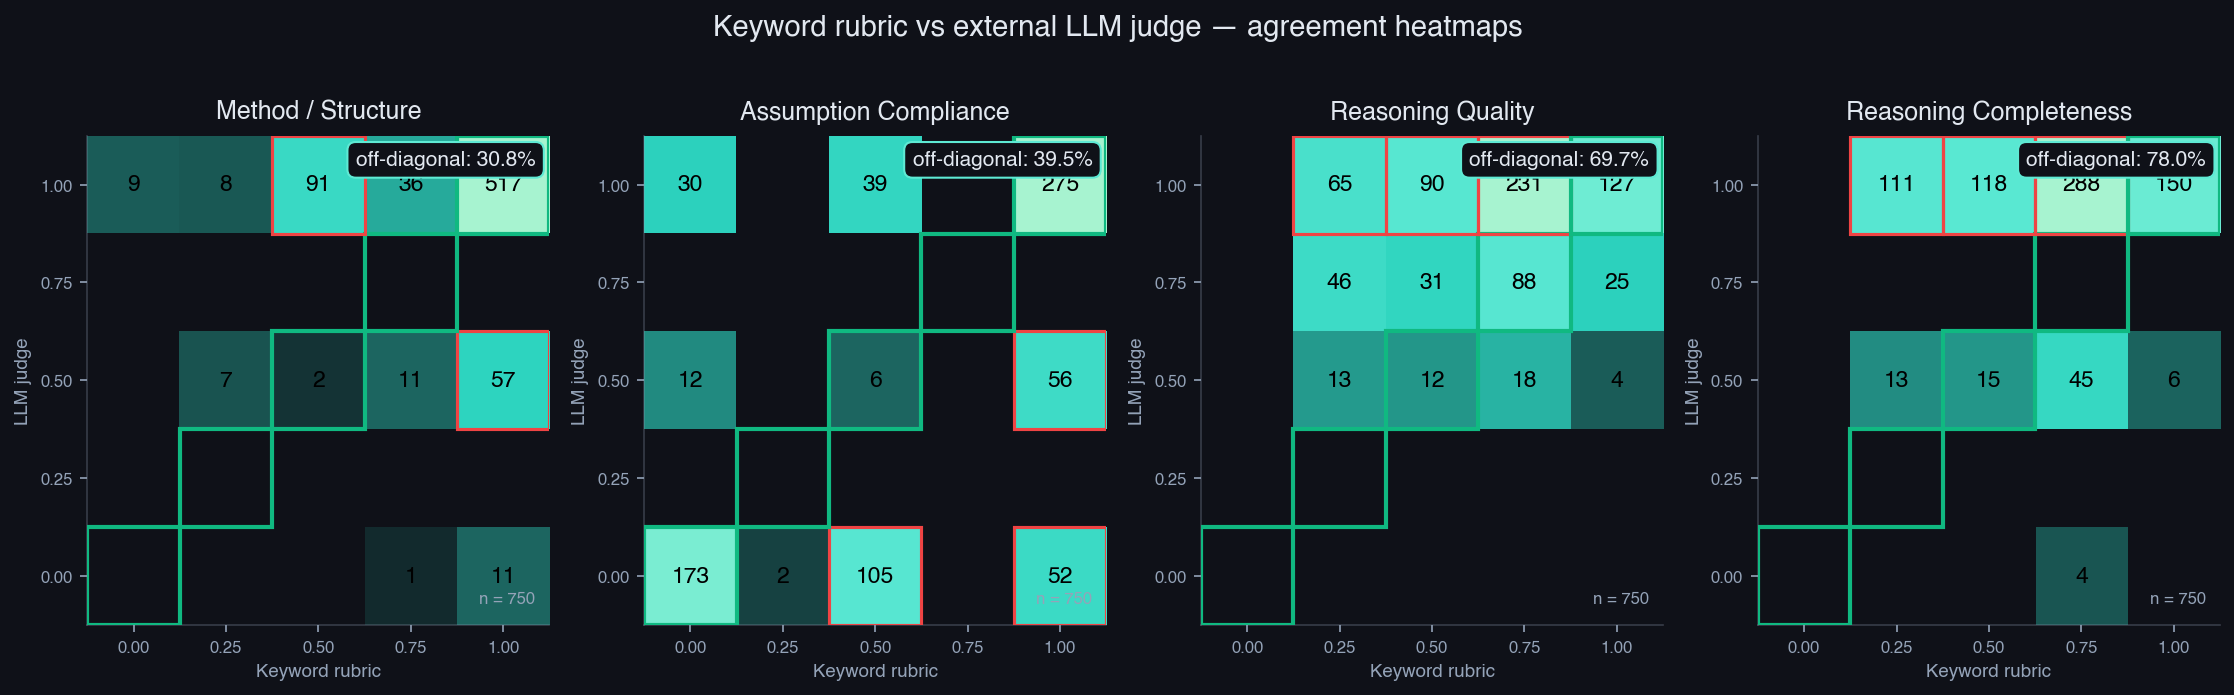
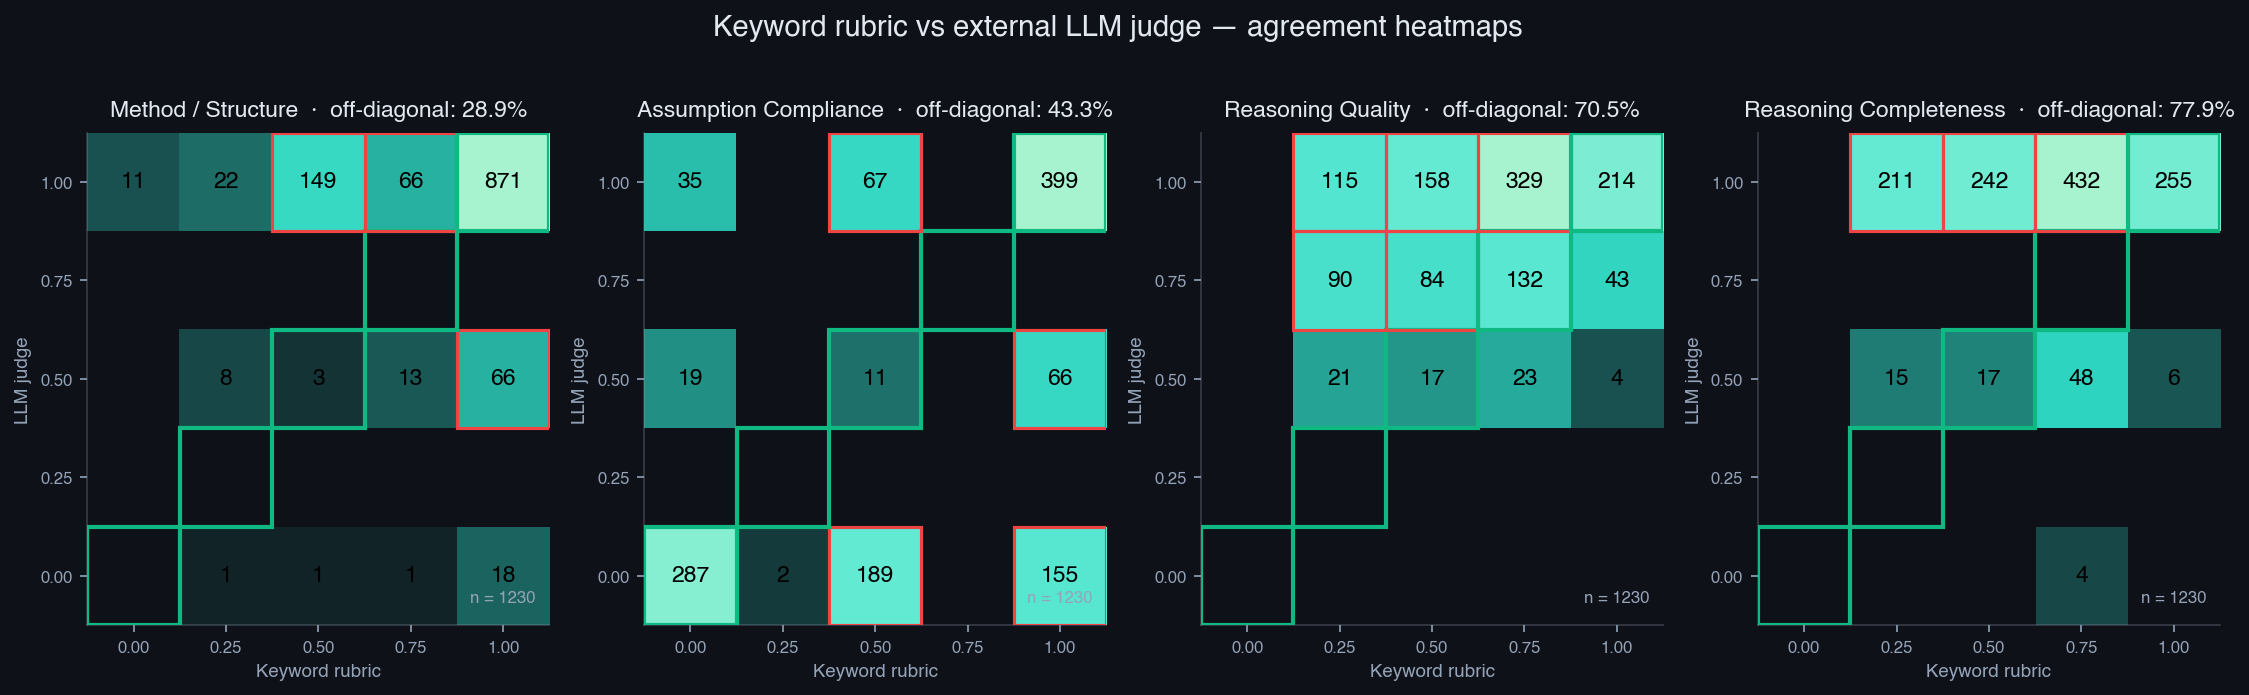
4 polish: judge title-inline %, robustness wider+plain black, calibration corner labels, accuracy colorbar 0-1

diff --git a/scripts/robustness_analysis.py b/scripts/robustness_analysis.py
@@ -21,7 +21,6 @@ from collections import defaultdict
 from pathlib import Path
 
 import matplotlib.colors as mcolors
-import matplotlib.patheffects as pe
 import matplotlib.pyplot as plt
 import numpy as np
 
@@ -145,7 +144,7 @@ def plot_heatmap(heatmap, task_types, models):
     norm = mcolors.TwoSlopeNorm(vmin=-vmax, vcenter=0.0, vmax=vmax)
     cmap = plt.get_cmap("RdBu_r")
 
-    fig, ax = plt.subplots(figsize=(7, 14), dpi=150, facecolor=SITE_BG)
+    fig, ax = plt.subplots(figsize=(9, 14), dpi=150, facecolor=SITE_BG)
     ax.set_facecolor(SITE_BG)
     im = ax.imshow(M, cmap=cmap, norm=norm, aspect="auto", origin="upper")
 
@@ -161,20 +160,16 @@ def plot_heatmap(heatmap, task_types, models):
     ax.set_yticklabels(ordered_types, fontsize=8.5, family="monospace",
                        color=SITE_FG_MUTED)
 
-    # Annotate EVERY non-NaN cell. Black ink + white stroke for contrast on
-    # any background.
-    label_stroke = [pe.withStroke(linewidth=1.5, foreground="white")]
+    # Annotate EVERY non-NaN cell with plain black text.
     for i in range(len(ordered_types)):
         for j in range(len(models)):
             v = M[i, j]
             if np.isnan(v):
                 ax.text(j, i, "—", ha="center", va="center",
-                        fontsize=6, color="black",
-                        path_effects=label_stroke)
+                        fontsize=6, color="black")
                 continue
             ax.text(j, i, f"{v:+.2f}", ha="center", va="center",
-                    fontsize=7, color="black", fontweight="bold",
-                    path_effects=label_stroke)
+                    fontsize=7, color="black", fontweight="bold")
 
     for _, _, end_row in cat_spans[:-1]:
         ax.axhline(end_row + 0.5, color=SITE_FG_MUTED, linewidth=1.0, alpha=0.5)

diff --git a/scripts/keyword_vs_judge_agreement.py b/scripts/keyword_vs_judge_agreement.py
@@ -27,7 +27,7 @@ import sys
 sys.path.insert(0, str(Path(__file__).resolve().parent))
 from site_palette import (
     SITE_BG, SITE_FG, SITE_FG_MUTED, MODEL_COLORS,
-    ACCENT_TEAL, COLOR_GOOD, COLOR_BAD,
+    COLOR_GOOD, COLOR_BAD,
     apply_site_theme, color_code_model_ticks, dim_remaining_spines,
 )
 
@@ -255,13 +255,6 @@ def make_scatter_figure(joined: list[dict], path: Path) -> None:
                                          linewidth=1.5, zorder=4)
                     ax.add_patch(rect)
 
-        ax.text(0.97, 0.97,
-                f"off-diagonal: {off_pct:.1f}%",
-                transform=ax.transAxes, ha="right", va="top",
-                fontsize=10, fontweight="700", color=SITE_FG,
-                bbox=dict(boxstyle="round,pad=0.4", facecolor=SITE_BG,
-                          edgecolor=ACCENT_TEAL, lw=1),
-                zorder=5)
         ax.text(0.97, 0.04, f"n = {total}",
                 transform=ax.transAxes, ha="right", va="bottom",
                 fontsize=8, color=SITE_FG_MUTED, fontweight="600")
@@ -270,7 +263,8 @@ def make_scatter_figure(joined: list[dict], path: Path) -> None:
         ax.set_yticks(range(len(bin_centers)))
         ax.set_xticklabels([f"{c:.2f}" for c in bin_centers], fontsize=8)
         ax.set_yticklabels([f"{c:.2f}" for c in bin_centers], fontsize=8)
-        ax.set_title(title, fontsize=12, color=SITE_FG, pad=8, fontweight="700")
+        ax.set_title(f"{title}  ·  off-diagonal: {off_pct:.1f}%",
+                     fontsize=11, color=SITE_FG, pad=8, fontweight="700")
         ax.set_xlabel("Keyword rubric", fontsize=9, color=SITE_FG_MUTED)
         ax.set_ylabel("LLM judge", fontsize=9, color=SITE_FG_MUTED)
         ax.tick_params(colors=SITE_FG_MUTED, labelsize=8)

diff --git a/scripts/calibration_analysis.py b/scripts/calibration_analysis.py
@@ -288,7 +288,7 @@ def make_reliability_smallmultiples(per_model: dict, paths: list[Path]) -> None:
     ax.axvline(0.0, color="white", lw=1.2, alpha=0.85, zorder=2)
     ax.text(0.003, -0.7, "perfect calibration",
             ha="left", va="center",
-            fontsize=8.5, color=SITE_FG_MUTED, style="italic")
+            fontsize=8.5, color=SITE_FG, style="italic")
 
     for i, m in enumerate(models):
         info = per_model.get(m)
@@ -323,8 +323,13 @@ def make_reliability_smallmultiples(per_model: dict, paths: list[Path]) -> None:
         tick.set_color(MODEL_COLORS.get(m, SITE_FG))
     ax.tick_params(axis="y", which="major", length=0)
 
-    ax.set_xlabel("overconfident  ·  calibrated  ·  underconfident",
-                  fontsize=10, color=SITE_FG_MUTED, labelpad=8)
+    ax.set_xlabel("")
+    ax.text(0.02, 0.95, "overconfident",
+            transform=ax.transAxes, ha="left", va="top",
+            color=SITE_FG, fontsize=11, weight="bold")
+    ax.text(0.98, 0.95, "underconfident",
+            transform=ax.transAxes, ha="right", va="top",
+            color=SITE_FG, fontsize=11, weight="bold")
     dim_remaining_spines(ax)
     ax.grid(axis="x", linestyle="-", alpha=0.06, color="#ffffff")
     ax.set_axisbelow(True)

diff --git a/scripts/generate_group_a_figures.py b/scripts/generate_group_a_figures.py
@@ -293,7 +293,7 @@ def figure_a2():
             if vals:
                 M[i, j] = float(np.mean(vals))
 
-    norm = mcolors.TwoSlopeNorm(vmin=0.15, vcenter=overall_mean, vmax=0.78)
+    norm = mcolors.TwoSlopeNorm(vmin=0.0, vcenter=0.665, vmax=1.0)
     cmap = plt.get_cmap("RdYlGn")
 
     fig, ax = plt.subplots(figsize=(11, 4.2), dpi=150, facecolor=SITE_BG)
@@ -341,7 +341,9 @@ def figure_a2():
     ax.set_title("Accuracy by task category",
                  fontsize=13, fontweight="700", color=SITE_FG, pad=22, loc="left")
 
-    cbar = fig.colorbar(im, ax=ax, ticks=[0.2, 0.4, 0.6, 0.8])
+    cbar = fig.colorbar(im, ax=ax)
+    cbar.set_ticks([0, 0.2, 0.4, 0.6, 0.8, 1.0])
+    cbar.set_ticklabels(["0", "0.2", "0.4", "0.6", "0.8", "1.0"])
     cbar.set_label("Accuracy", color=SITE_FG_MUTED, fontsize=11,
                    rotation=270, labelpad=18)
     cbar.ax.tick_params(colors=SITE_FG_MUTED, labelsize=10)
